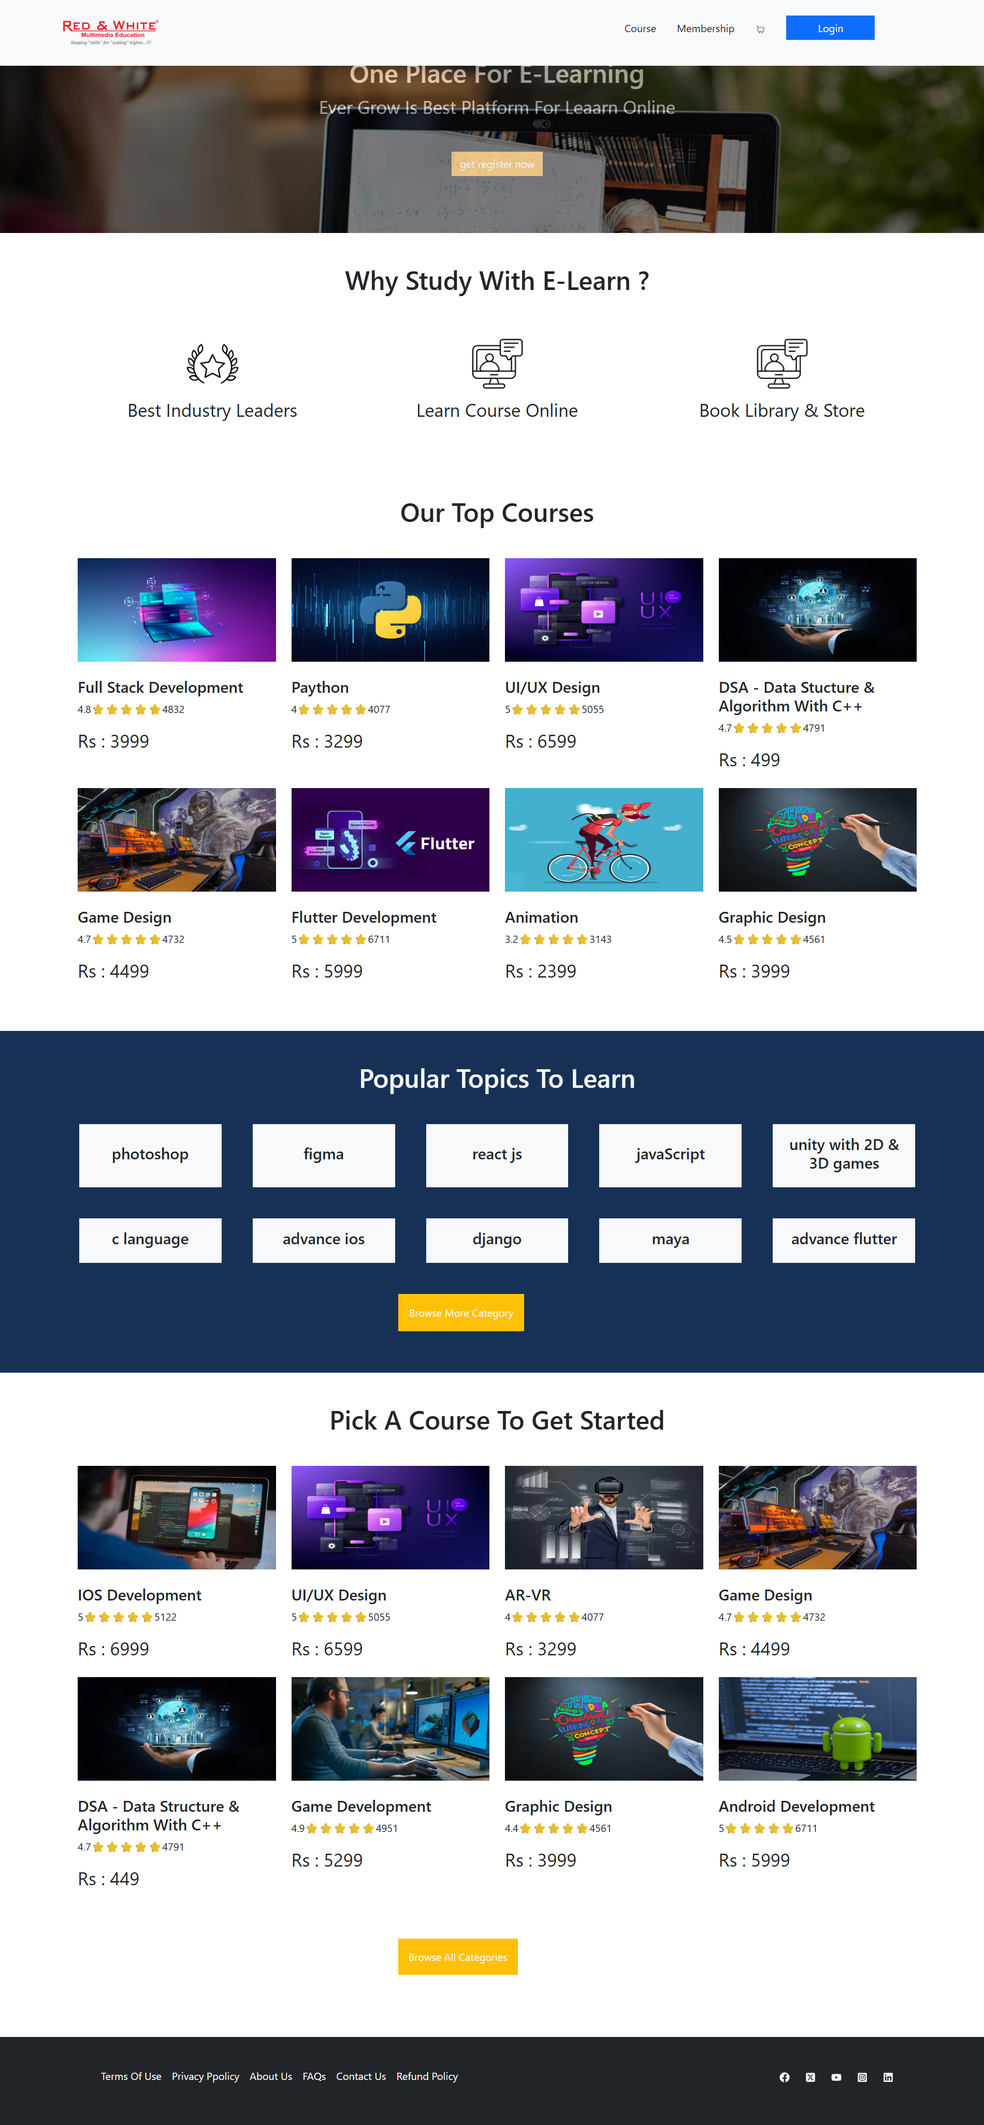
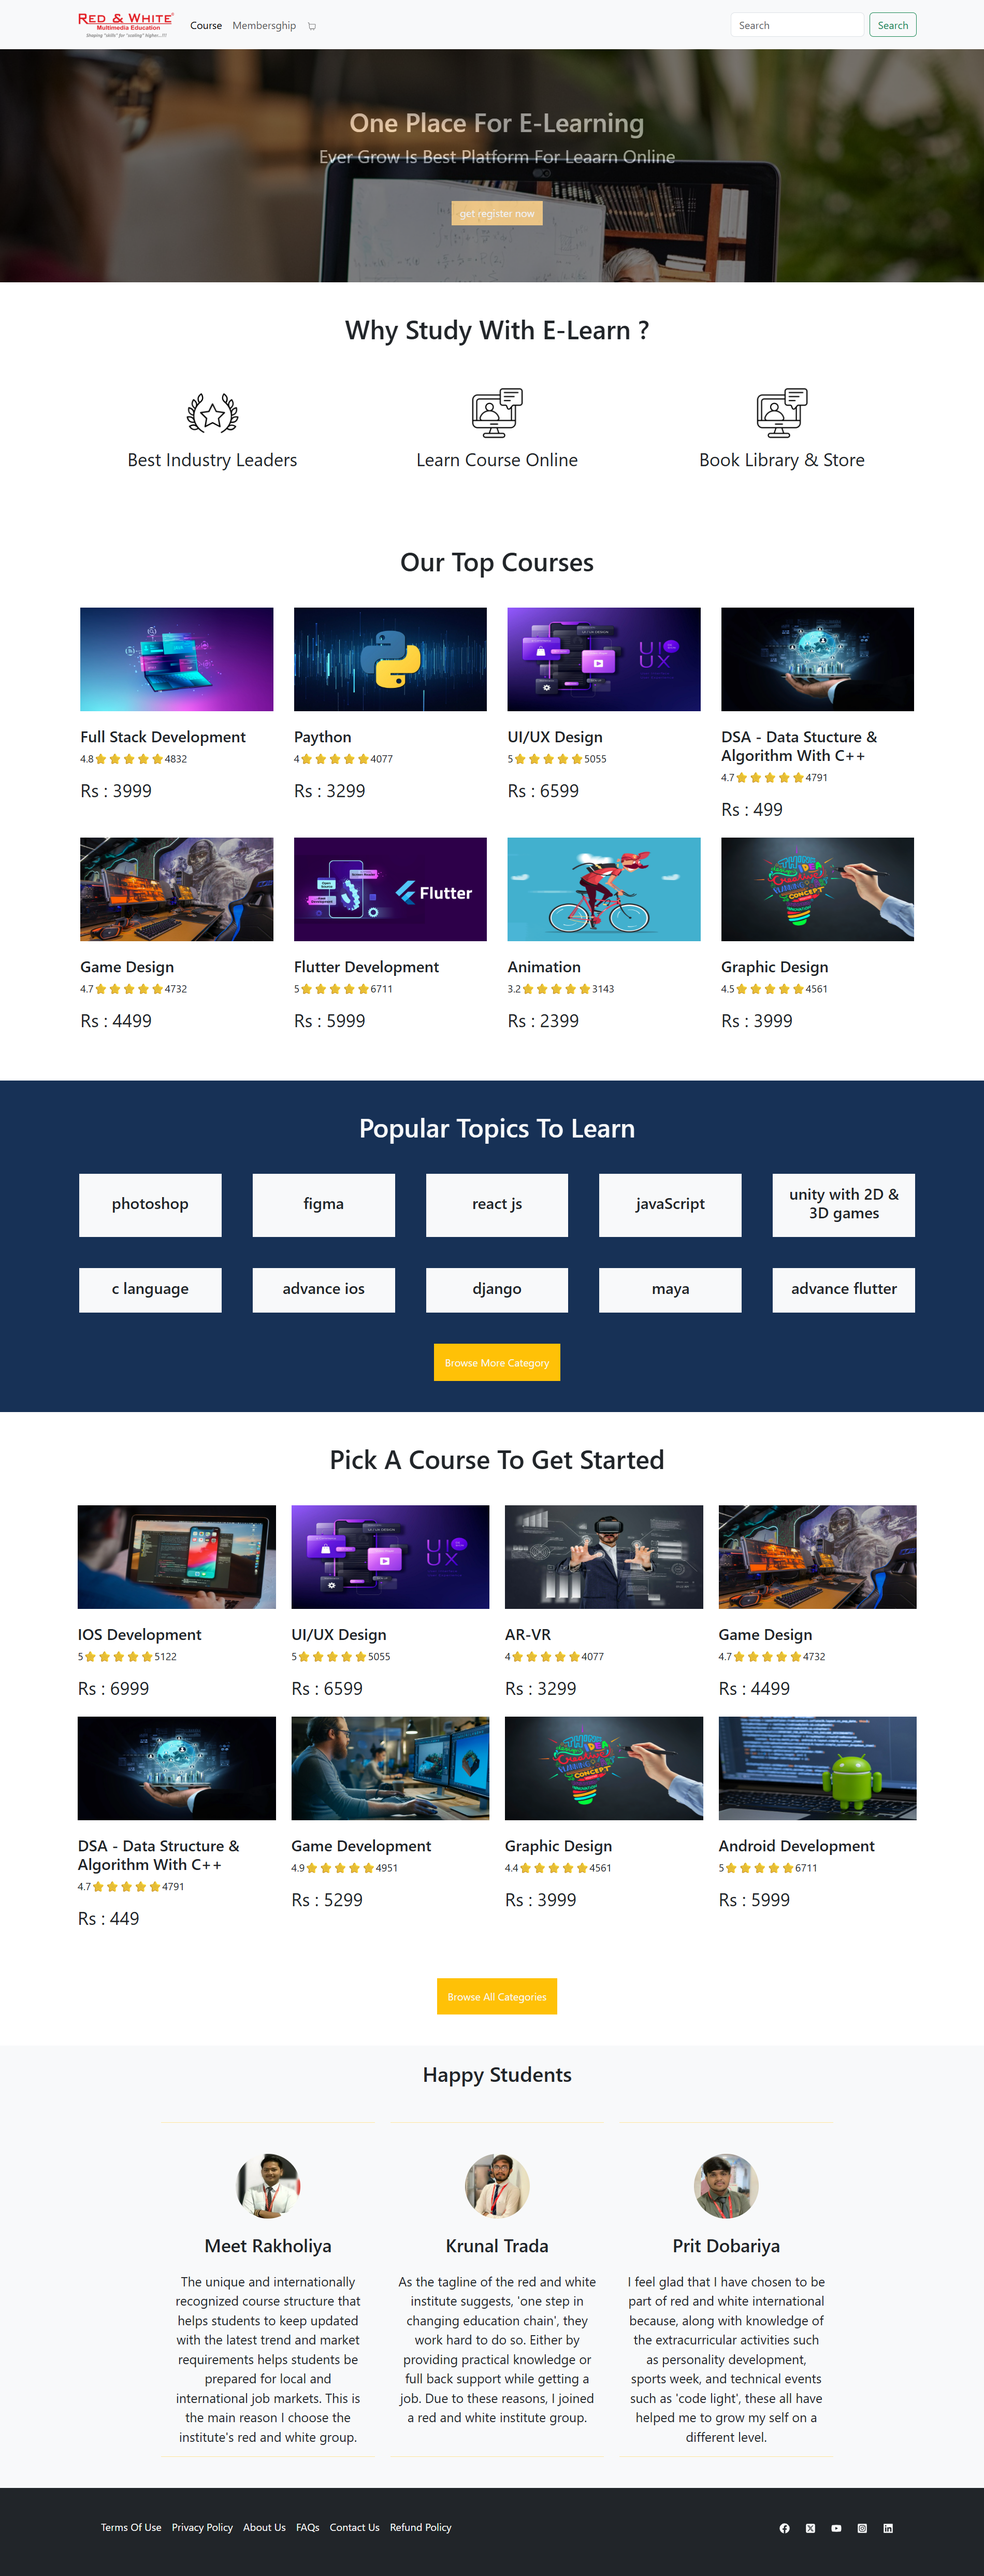
Add one section and make responsive

diff --git a/src/layout/Navbar.jsx b/src/layout/Navbar.jsx
@@ -1,32 +1,59 @@
 import { CiShoppingCart } from "react-icons/ci";
-import logo from '../assets/images/logo.png'
+import logo from "../assets/images/logo.png";
 
 const Navbar = () => {
   return (
     <>
-     <div className="">
-        <div className="container-fluid py-4 px-5 position-fixed z-3 bg-light">
-            <div className="row gap-5">
-                <div className="col ms-5">
-                    <img src={logo} alt="" width={150} />
-                </div>
-                <div className="col">
-                    <div className="row">
-                        <ul className="d-flex justify-content-center align-items-center list-unstyled">
-                            <li className="text-capitalize mx-3">course</li>
-                            <li className="text-capitalize mx-3">membership</li>
-                            <li className="text-capitalize mx-3"><CiShoppingCart /></li>
-                            <li className="text-capitalize mx-3">
-                                <button className="btn btn-primary text-capitalize px-5 rounded-0">login</button>
-                            </li>
-                        </ul>
-                    </div>
-                </div>
-            </div>
+      <nav className="navbar navbar-expand-lg bg-body-tertiary">
+        <div className="container">
+          <a className="navbar-brand" href="#">
+            <img src={logo} alt="Red and White Education Multi Media." width={150}  />
+          </a>
+          <button
+            className="navbar-toggler"
+            type="button"
+            data-bs-toggle="collapse"
+            data-bs-target="#navbarSupportedContent"
+            aria-controls="navbarSupportedContent"
+            aria-expanded="false"
+            aria-label="Toggle navigation"
+          >
+            <span className="navbar-toggler-icon"></span>
+          </button>
+          <div className="collapse navbar-collapse" id="navbarSupportedContent">
+            <ul className="navbar-nav me-auto mb-2 mb-lg-0">
+              <li className="nav-item">
+                <a className="nav-link active text-capitalize" aria-current="page" href="#">
+                  course
+                </a>
+              </li>
+              <li className="nav-item text-capitalize">
+                <a className="nav-link" href="#">
+                  membersghip
+                </a>
+              </li>
+              <li className="nav-item text-capitalize">
+                <a className="nav-link" href="#">
+                  <CiShoppingCart/>
+                </a>
+              </li>
+            </ul>
+            <form className="d-flex" role="search">
+              <input
+                className="form-control me-2"
+                type="search"
+                placeholder="Search"
+                aria-label="Search"
+              />
+              <button className="btn btn-outline-success" type="submit">
+                Search
+              </button>
+            </form>
+          </div>
         </div>
-     </div> 
+      </nav>
     </>
-  )
-}
+  );
+};
 
-export default Navbar
+export default Navbar;

diff --git a/src/layout/Footer.jsx b/src/layout/Footer.jsx
@@ -4,16 +4,16 @@ const Footer = () => {
   return (
     <>
       <section style={{backgroundColor:"#212529"}}>
-        <div className="container p-5">
-            <div className="row">
+        <div className="container p-5"> 
+            <div className="row flex-lg-row flex-column">
                 <div className="col">
                     <div className="row">
-                        <ul className='list-unstyled d-flex gap-3'>
+                        <ul className='list-unstyled d-flex flex-lg-row flex-column text-center text-lg-start gap-3'>
                             <li>
                                 <a href="#" className='text-decoration-none text-capitalize text-light'>terms of use</a>
                             </li>
                             <li>
-                                <a href="#" className='text-decoration-none text-capitalize text-light'>privacy ppolicy</a>
+                                <a href="#" className='text-decoration-none text-capitalize text-light'>privacy policy</a>
                             </li>
                             <li>
                                 <a href="#" className='text-decoration-none text-capitalize text-light'>about us</a>
@@ -31,7 +31,7 @@ const Footer = () => {
                     </div>
                 </div>
                 <div className="col">
-                    <ul className="d-flex gap-4 flex-row-reverse">
+                    <ul className="d-flex gap-5 gap-lg-4 flex-row-reverse text-center text-lg-end">
                         <li>
                             <a href="#" className="text-light fs-6"><FaLinkedin/></a>
                         </li>

diff --git a/src/Utilits/data.js b/src/Utilits/data.js
@@ -158,3 +158,21 @@ export const Course =[
         price : 5999
     },
 ]
+
+export const Students = [
+    {
+        img : "https://d502jbuhuh9wk.cloudfront.net/orgData/6512b619e4b01fed6098ba30/pages/assets/images/biFRCstudent3.jpg",
+        name : "Meet Rakholiya",
+        desc : "The unique and internationally recognized course structure that helps students to keep updated with the latest trend and market requirements helps students be prepared for local and international job markets. This is the main reason I choose the institute's red and white group."
+    },
+    {
+        img : "https://d502jbuhuh9wk.cloudfront.net/orgData/6512b619e4b01fed6098ba30/pages/assets/images/e9YYistudent5.jpg",
+        name : "Krunal Trada",
+        desc : "As the tagline of the red and white institute suggests, 'one step in changing education chain', they work hard to do so. Either by providing practical knowledge or full back support while getting a job. Due to these reasons, I joined a red and white institute group."
+    },
+    {
+        img : "https://d502jbuhuh9wk.cloudfront.net/orgData/6512b619e4b01fed6098ba30/pages/assets/images/TPcF3student6.jpg",
+        name : "Prit Dobariya",
+        desc : "I feel glad that I have chosen to be part of red and white international because, along with knowledge of the extracurricular activities such as personality development, sports week, and technical events such as 'code light', these all have helped me to grow my self on a different level."
+    },
+]

diff --git a/src/layout/Topic.jsx b/src/layout/Topic.jsx
@@ -10,15 +10,16 @@ const Topic = () => {
           </h2>
           <div className="row gap-5 justify-content-center align-content-center">
             {Topics.map((ele) => (
-              <div className="col col-lg-2 px-2 py-3 text-center bg-light align-content-center">
+              <div className="col-10 col-sm-6 col-md-4 col-lg-2 px-2 py-3 text-center bg-light align-content-center">
                 <h4>{ele}</h4>
               </div>
             ))}
-            <div className="col col-lg-3 mb-3">
-              <button className="btn btn-warning p-3 text-light text-capitalize fs-6 rounded-0">
-                browse more category
-              </button>
-            </div>
+          </div>
+
+          <div className="text-center">
+            <button className="text-center center btn btn-warning mt-5 p-3 m-auto text-light text-capitalize fs-6 rounded-0">
+              browse more category
+            </button>
           </div>
         </div>
       </section>

diff --git a/src/layout/Courses2.jsx b/src/layout/Courses2.jsx
@@ -7,7 +7,7 @@ const Courses2 = () => {
             <div className="row my-5 justify-content-center">
                 {
                     Course.map(ele => 
-                        <div className="col col-lg-3 mb-2">
+                        <div className="col-10 col-sm-6 col-md-4 col-lg-3 mb-2">
                             <img src={ele.img} alt="" width="100%" height={160}/>
                             <h4 className="text-capitalize mt-4">{ele.title}</h4>
                             <p>{ele.rating}{ele.star}{ele.tot_rating}</p>
@@ -15,7 +15,9 @@ const Courses2 = () => {
                         </div>
                     )
                 }
-                <div className="col col-lg-3 my-5">
+            </div>
+            <div className="text-center">
+              <div className="my-5">
                     <button className="p-3 fs-6 text-capitalize bg-warning text-light border-0">browse all categories</button>
                 </div>
             </div>

diff --git a/src/layout/Student.jsx b/src/layout/Student.jsx
@@ -1,0 +1,26 @@
+import { Students } from "../Utilits/data"
+
+const Student = () => {
+  return (
+    <>
+    <section style={{backgroundColor: "#f8f9fa"}} className="pb-5">
+      <div className="container pt-4">
+        <h2 className="text-center text-capitalize">happy students</h2>
+        <div className="row gap-4 justify-content-center">
+            {
+                Students.map(ele => 
+                    <div className="mt-5 col-10 cols-md-4 col-lg-3 text-center bg-light border-top border-bottom border-warning-subtle">
+                        <img src={ele.img} alt="" width={100} className="mt-5 rounded-circle" />
+                        <h3 className="mt-4">{ele.name}</h3>
+                        <p className="mt-4 fs-5">{ele.desc}</p>
+                    </div>
+                )
+            }
+        </div>
+      </div>
+    </section>
+    </>
+  )
+}
+
+export default Student

diff --git a/src/layout/Courses.jsx b/src/layout/Courses.jsx
@@ -5,10 +5,10 @@ const Courses = () => {
     <>
       <div className='container '>
         <h2 className="text-capitalize text-center fs-1">our top courses</h2>
-        <div className="row my-5">
+        <div className="row my-5 justify-content-center">
             {
                 Top_Course.map(ele => 
-                    <div className="col col-lg-3 mb-2">
+                    <div className="col-10 col-sm-6 col-md-4 col-lg-3 mb-2 px-3">
                         <img src={ele.img} alt="" width="100%" height={160}/>
                         <h4 className="text-capitalize mt-4">{ele.title}</h4>
                         <p>{ele.rating}{ele.star}{ele.tot_rating}</p>

diff --git a/src/pages/Home.jsx b/src/pages/Home.jsx
@@ -6,6 +6,7 @@ import Courses from '../layout/Courses'
 import Topic from '../layout/Topic'
 import Courses2 from '../layout/Courses2'
 import Footer from '../layout/Footer'
+import Student from '../layout/Student'
 
 const Home = () => {
   return (
@@ -16,6 +17,7 @@ const Home = () => {
       <Courses/>
       <Topic/>
       <Courses2/>
+      <Student/>
       <Footer/>
     </div>
   )
